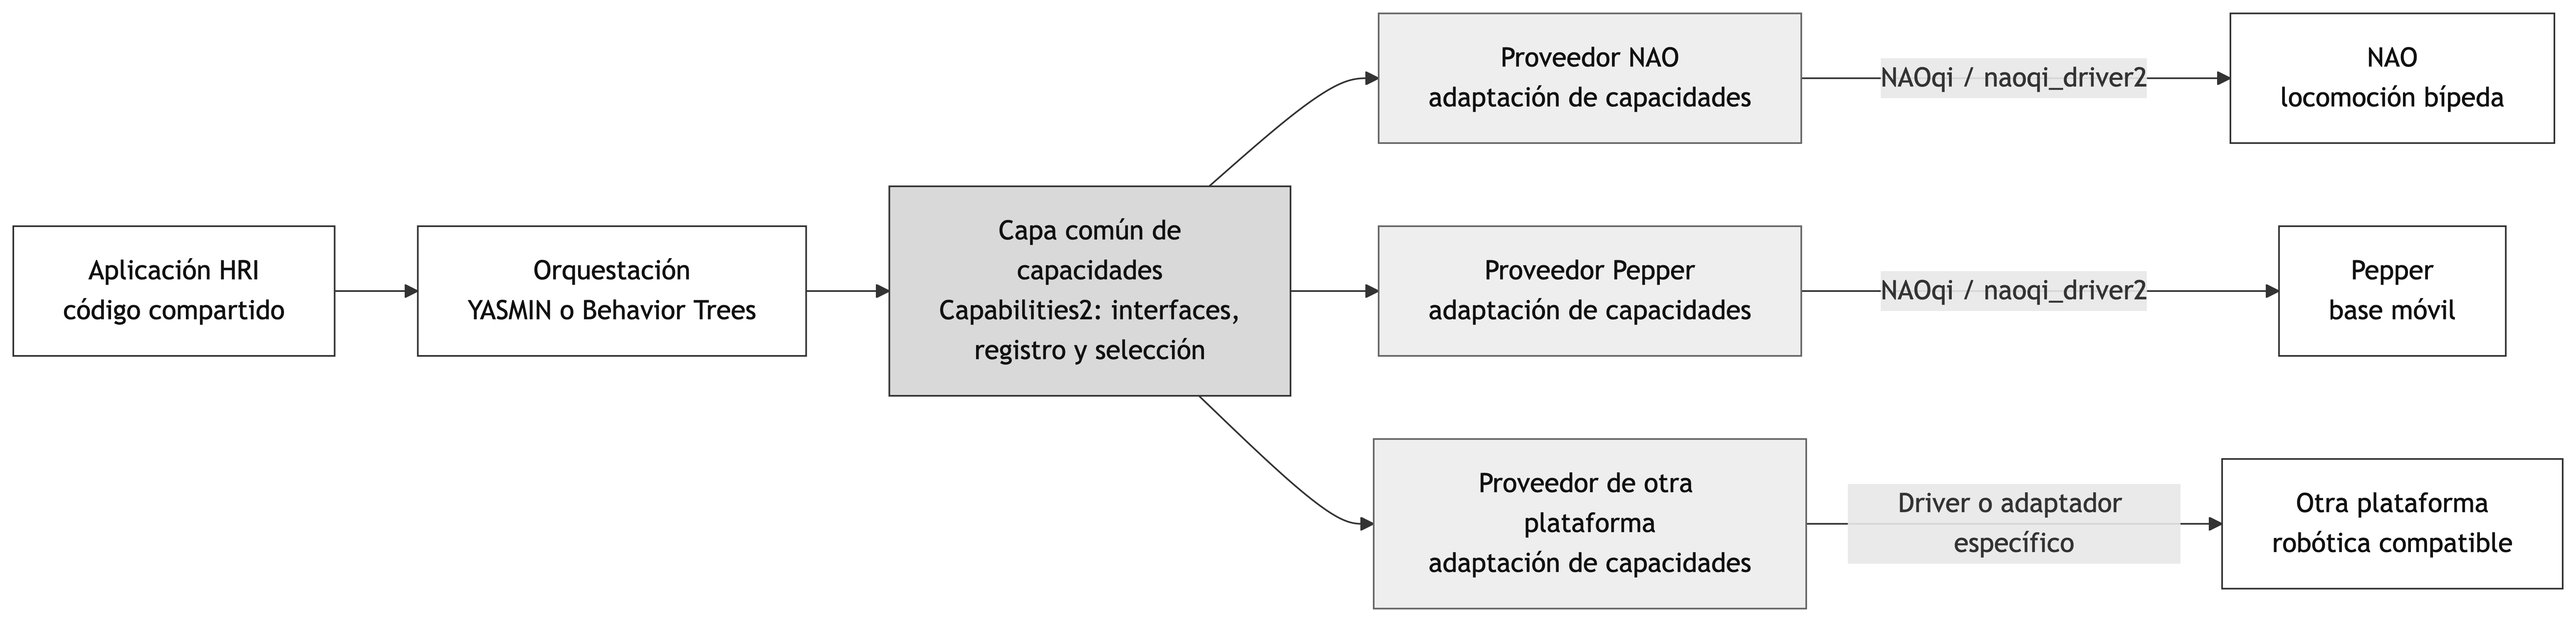
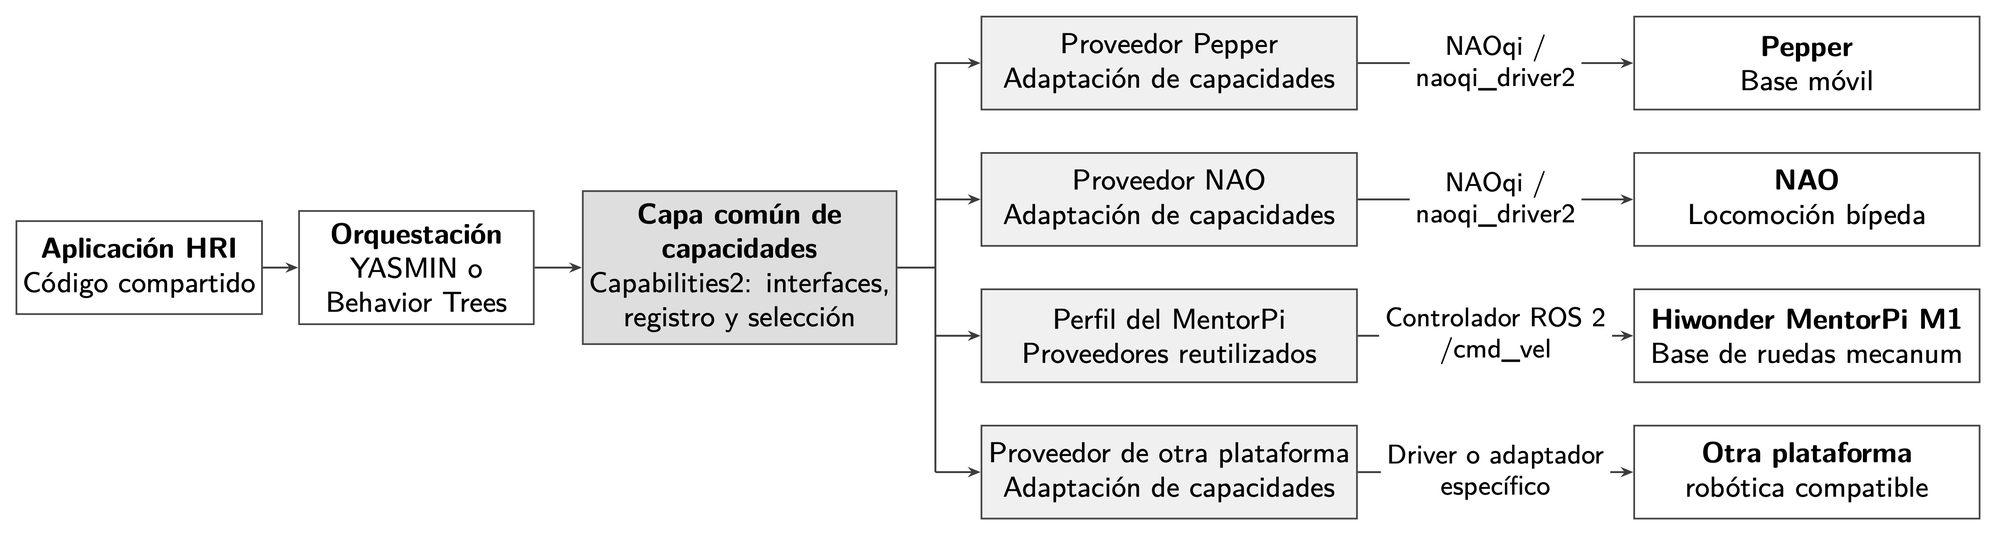
Mostrar Pepper, NAO y MentorPi junto a otra plataforma en la figura 1

diff --git a/tesis/informe-final/main.tex b/tesis/informe-final/main.tex
@@ -86,8 +86,8 @@ La propuesta inicial organizó la solución en aplicaciones HRI, orquestación, 
 
 \begin{figure}[htbp]
 \centering
-\includegraphics[width=\linewidth]{arquitectura_propuesta.png}
-\caption{Separación entre aplicación, orquestación, capacidades y proveedores planteada en la propuesta original.}\label{fig:arquitectura}
+\includegraphics[width=\linewidth,interpolate]{arquitectura_propuesta.png}
+\caption{Arquitectura de la propuesta, ampliada con el Hiwonder MentorPi M1. La cuarta rama muestra cómo incorporar otra plataforma compatible.}\label{fig:arquitectura}
 \end{figure}
 
 El diseño implementado emplea YASMIN para coordinar el comportamiento y Capabilities2 para adquirir, verificar y liberar proveedores. Los contratos públicos de ROS~2 transportan las detecciones, las órdenes de velocidad y los mensajes de voz. Este reparto permite cambiar el detector o el reconocedor, y concentrar la adaptación física en los recursos declarados en el perfil del robot.
